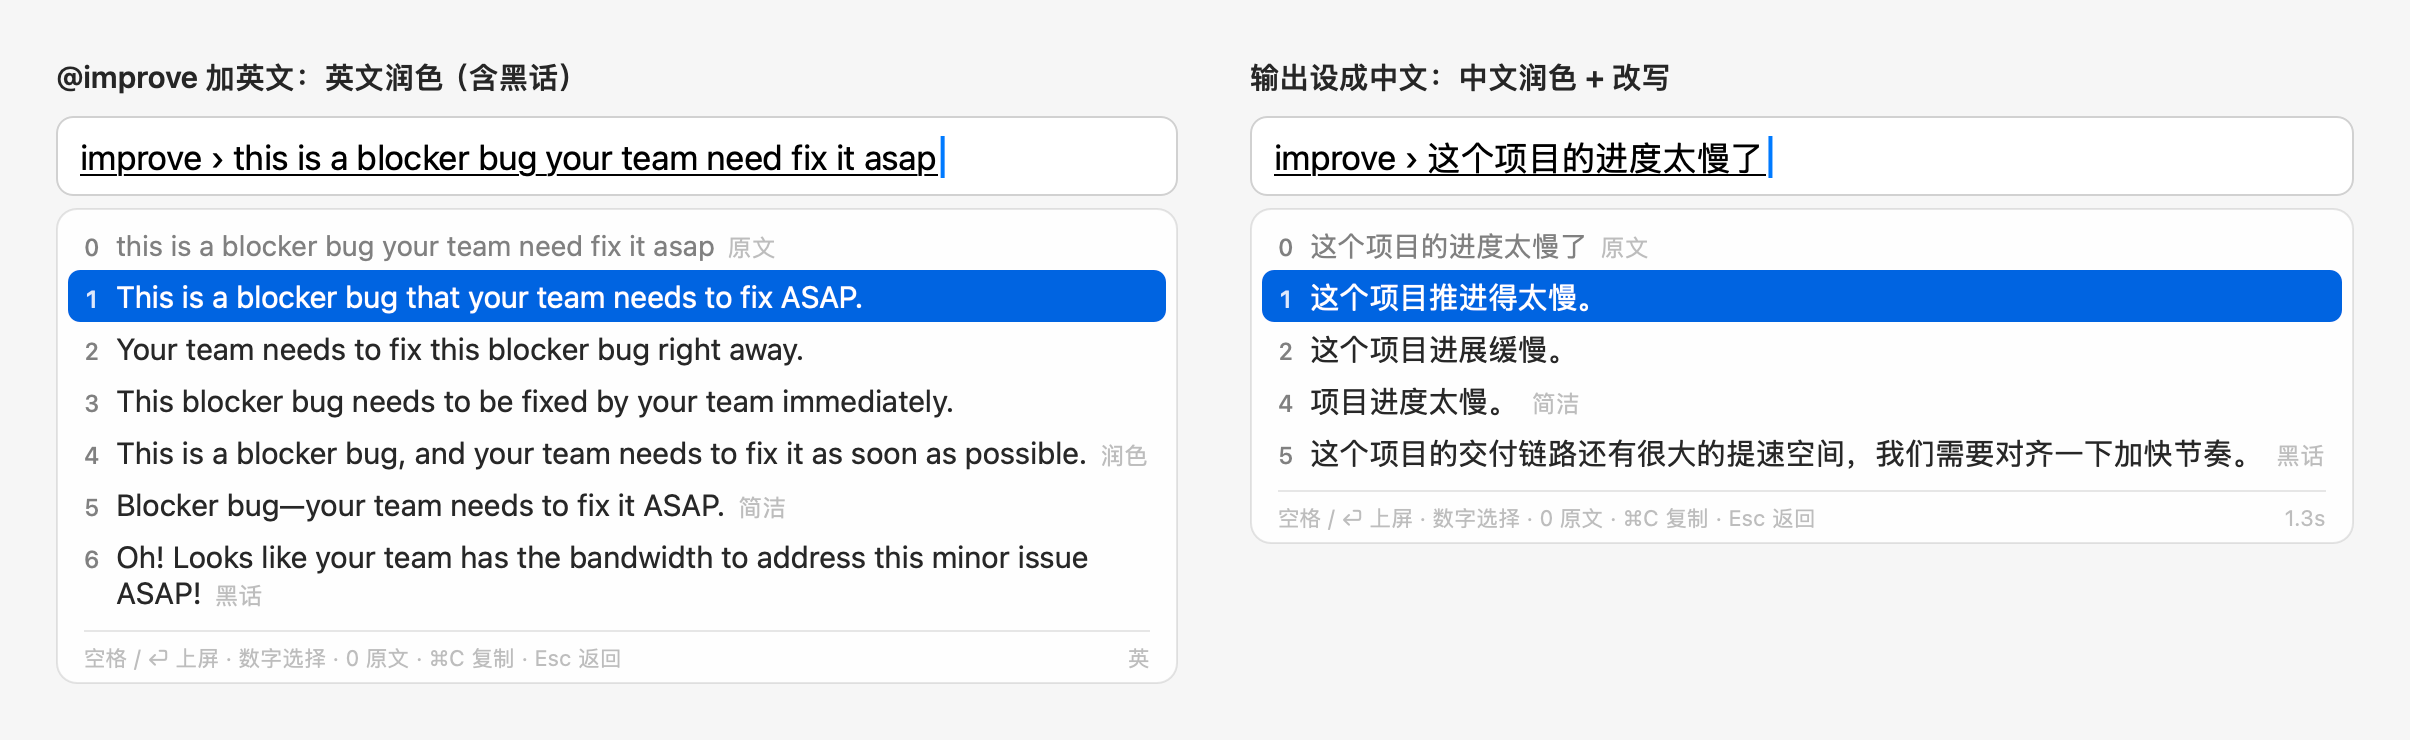
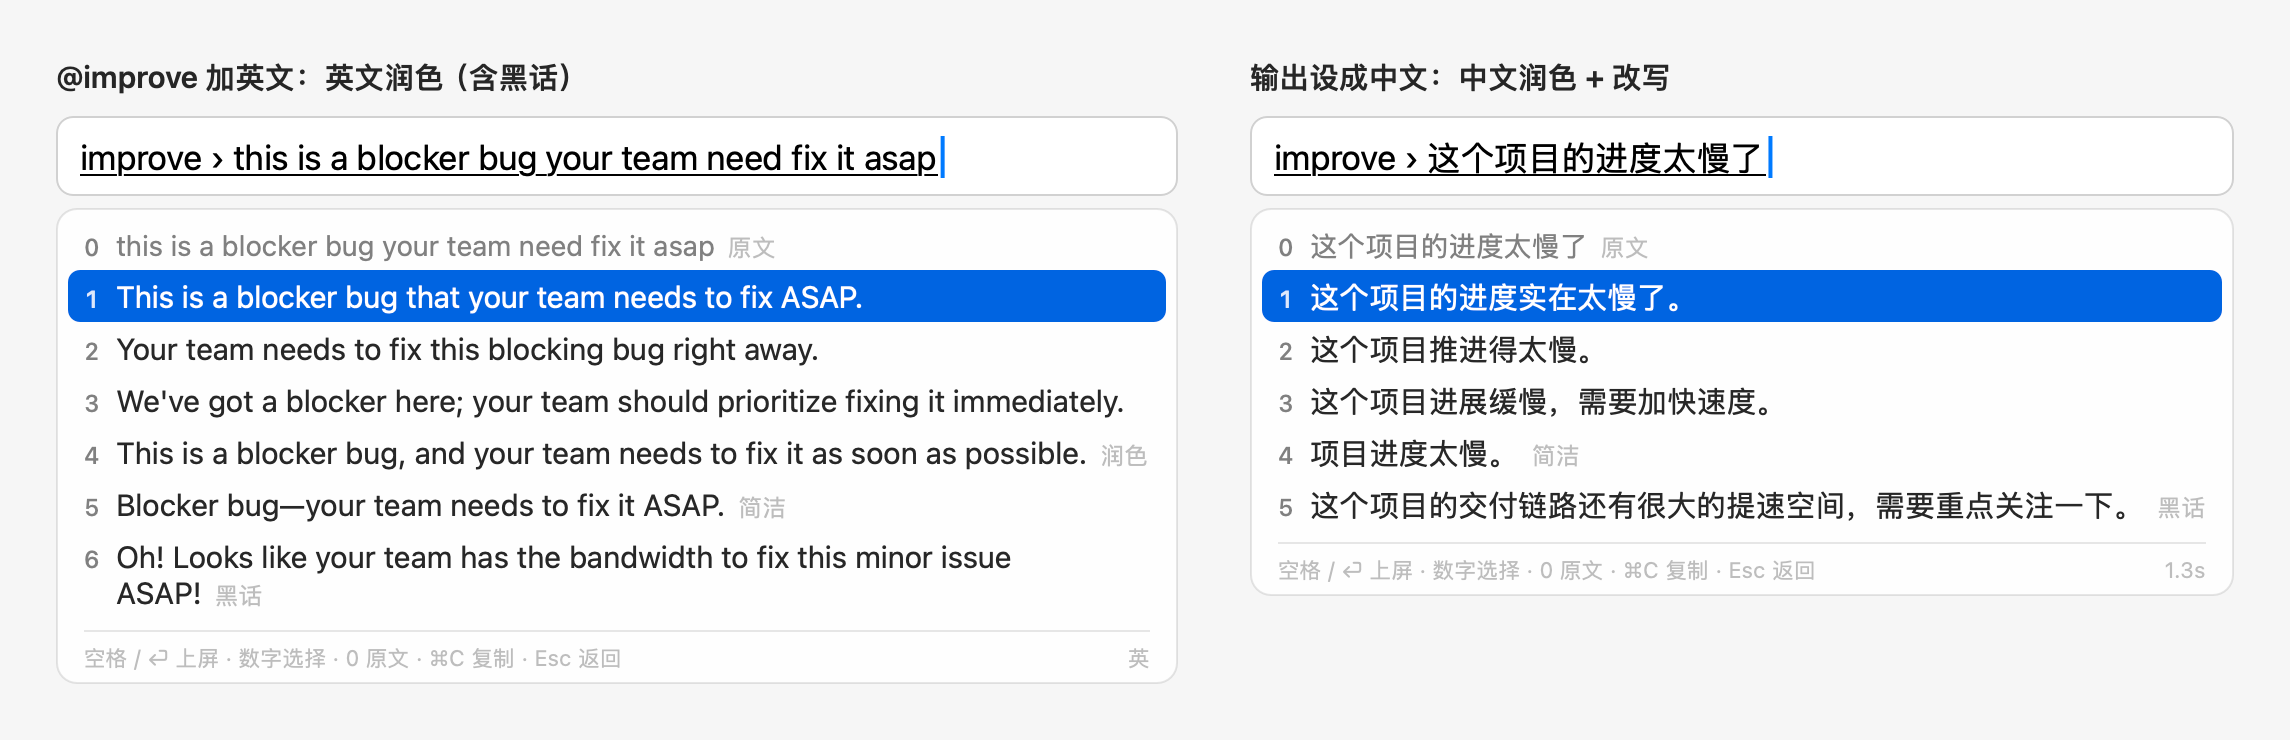
README images regenerated after the merges; the demo caption says @improve polishes without translating

diff --git a/Scripts/make-readme-images.swift b/Scripts/make-readme-images.swift
@@ -107,7 +107,7 @@ func composite(_ steps: [Step], to name: String) throws {
 try composite([
     Step(caption: tr("① 开头打 @improve，再打拼音", "① Type @improve, then pinyin"),
          marked: "improve › wo jin tian you dian bu shu fu", panel: load("1b-sentence-pinyin")),
-    Step(caption: tr("② 按 ⏎：英文 + 中文改写", "② Press ⏎: English + Chinese rewrites"),
+    Step(caption: tr("② 按 ⏎：润色 + 改写，不翻译", "② Press ⏎: polished, plus rewrites (no translation)"),
          marked: "improve › 我今天有点不舒服", panel: load("4-final-light")),
 ], to: "demo.png")
 
